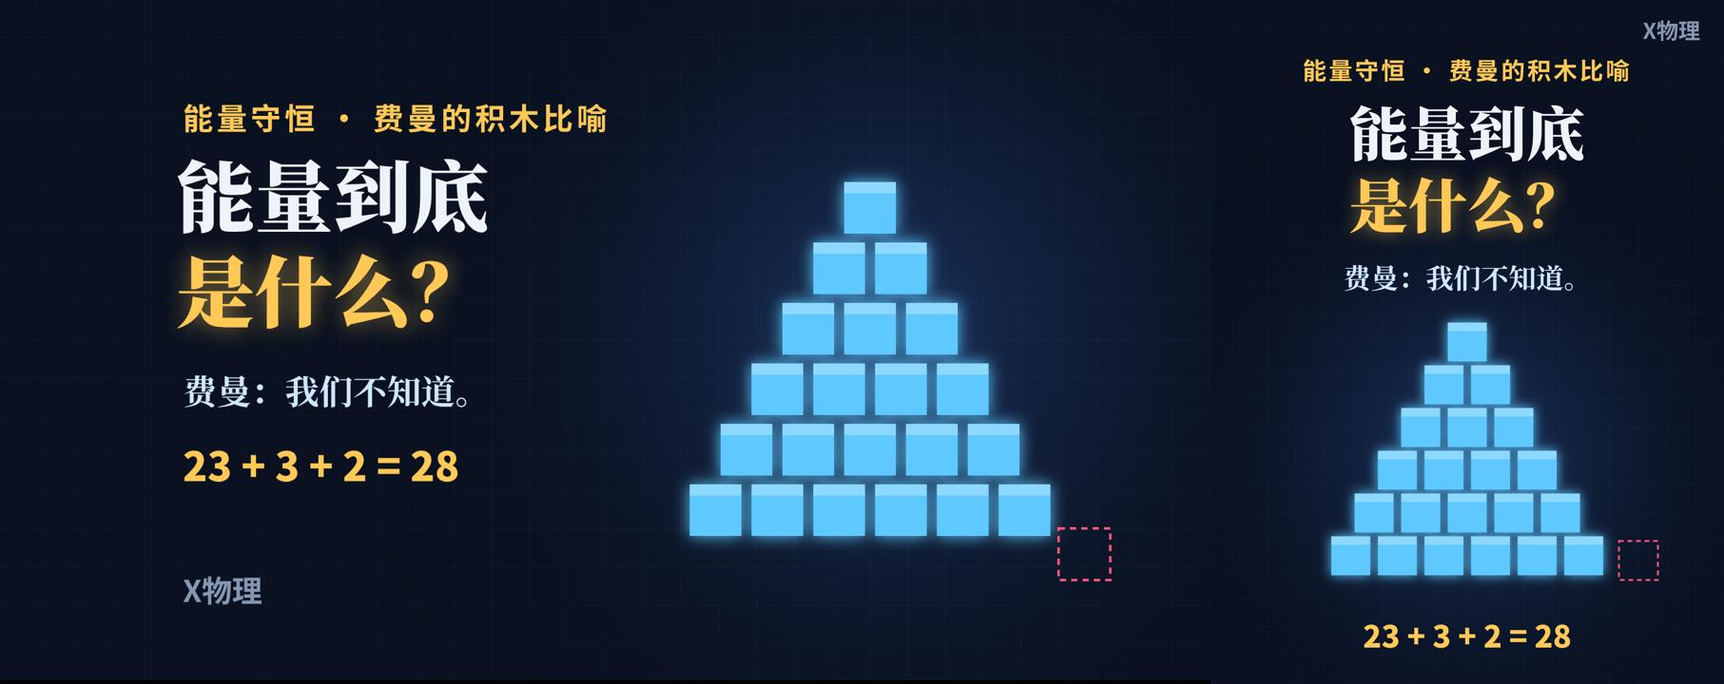
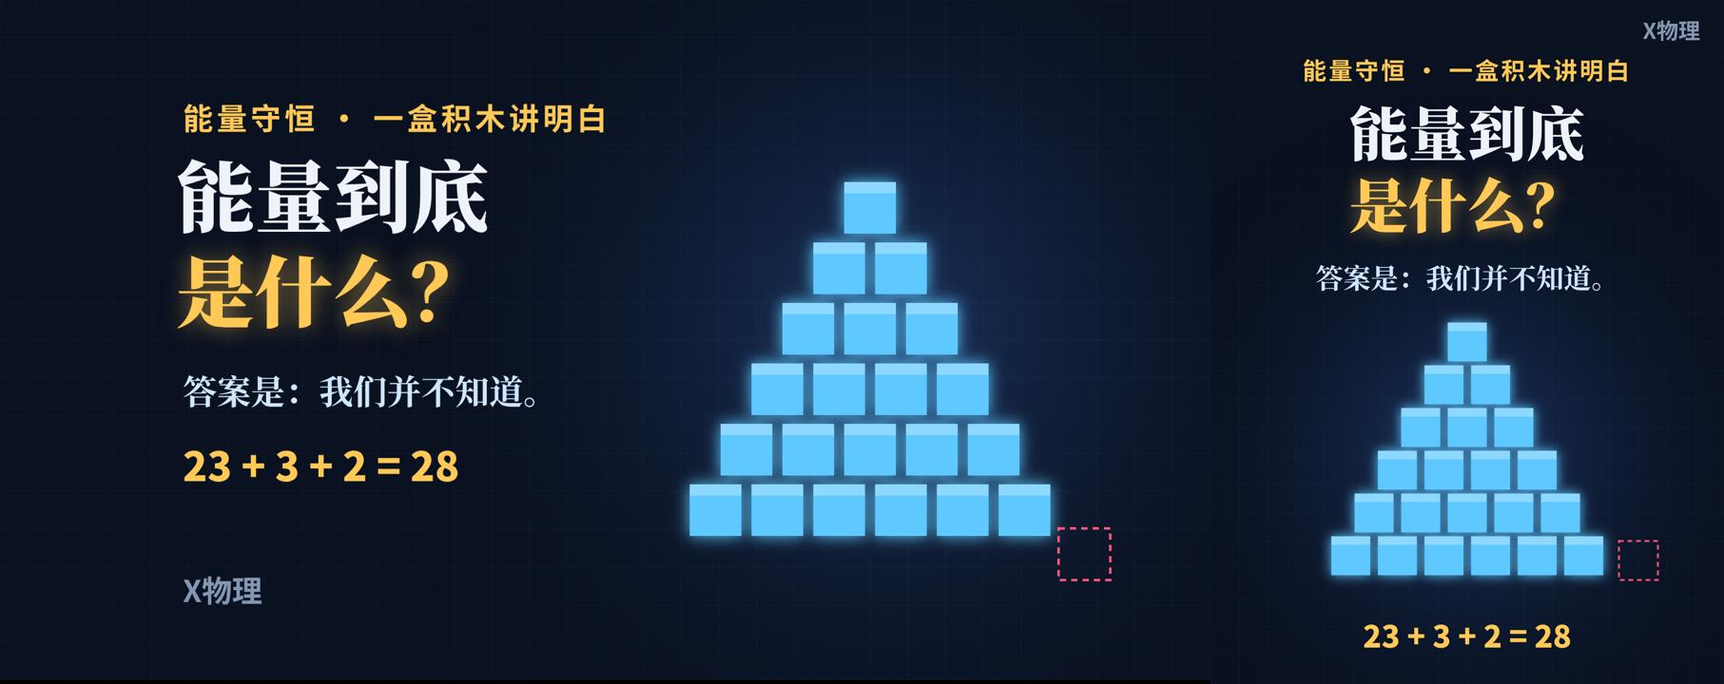
能量守恒教学版：加人物（丹尼斯/妈妈/布鲁斯）、去掉费曼、单位改克和厘米、音效调小
Claude-Session: https://claude.ai/code/session_01XMyVkW7vvj317S43WL6LG8

diff --git a/mystudy/02_energy/scenes.js b/mystudy/02_energy/scenes.js
@@ -1,5 +1,5 @@
 // 能量守恒 · 什么是能量（教学版，无配乐）
-// 依据：费曼《物理学讲义》第一卷 §4-1 的积木比喻（旁白用自己的话复述，只引用一句短引文并注明出处）
+// 积木比喻教学；单位用克、厘米；人物：丹尼斯（孩子）、妈妈、布鲁斯（邻居孩子）
 // 配色：冰蓝 = 积木 / 势能；金 = 关键结果 / 动能；红 = 外来 / 划掉
 const S = [];
 const BL = '#5EC8FF', RED = '#FF5577';
@@ -30,10 +30,58 @@ function room(g, a, o = {}) {
   if (o.box) { const bx = RX + 640, by = RY + 470; rrect(g, bx, by, 220, 150, 10, '#6B4A2A', '#C89A5E', 3, a * o.box);
     rrect(g, bx - 10, by - 18, 240, 26, 6, '#8A6238', '#C89A5E', 2, a * o.box);
     txt(g, '玩具箱', bx + 110, by + 80, { size: 32, w: 700, col: '#F2D7A8', al: 'center', a: a * o.box }); }
-  if (o.tub) { const tx = RX + 600, ty = RY + 470, tw = 260, th = 160; const lv = o.level ?? 6;   // 水深（英寸），满刻度 8 in
+  if (o.tub) { const tx = RX + 600, ty = RY + 470, tw = 260, th = 160; const lv = o.level ?? 15;   // 水深（厘米），满刻度 20 cm
     rrect(g, tx, ty, tw, th, 40, 'rgba(230,240,255,.06)', 'rgba(230,240,255,.7)', 4, a * o.tub);
-    const wh = (th - 20) * lv / 8; rrect(g, tx + 10, ty + th - 10 - wh, tw - 20, wh, 28, 'rgba(110,130,90,.75)', null, 0, a * o.tub);
-    txt(g, `水深 ${lv.toFixed(lv % 1 ? 1 : 0)} in`, tx + tw / 2, ty - 30, { size: 30, w: 700, col: '#CFE6C0', al: 'center', a: a * o.tub }); }
+    const wh = (th - 20) * lv / 20; rrect(g, tx + 10, ty + th - 10 - wh, tw - 20, wh, 28, 'rgba(110,130,90,.75)', null, 0, a * o.tub);
+    txt(g, `水深 ${lv.toFixed(1)} cm`, tx + tw / 2, ty - 30, { size: 30, w: 700, col: '#CFE6C0', al: 'center', a: a * o.tub }); }
+}
+
+// ---------- 人物（原创卡通：丹尼斯、妈妈、布鲁斯）----------
+const KID_D = { kind: 'kid', skin: '#F2C9A0', hair: '#3B2A1E', style: 'spiky', shirt: '#3D8BFF', pants: '#24324D', name: '丹尼斯' };
+const KID_B = { kind: 'kid', skin: '#E8B98E', hair: '#C7772E', style: 'curly', shirt: '#FF5577', pants: '#2E2A40', name: '布鲁斯' };
+const MOM = { kind: 'adult', skin: '#F4D0AE', hair: '#5A3422', style: 'long', shirt: '#B48CFF', pants: '#6E55B0', name: '妈妈' };
+function person(g, x, y, sc, P, a = 1, o = {}) {           // (x, y) = 两脚中间的地面点
+  if (a <= 0) return; const kid = P.kind === 'kid', H = (kid ? 150 : 230) * sc, hr = (kid ? 30 : 30) * sc;
+  const legH = H * (kid ? .30 : .38), bodyH = H * (kid ? .36 : .34), bw = (kid ? 52 : 62) * sc;
+  const hipY = y - legH, neckY = hipY - bodyH, hy = neckY - hr * .95;
+  g.save(); g.globalAlpha *= a; g.lineCap = 'round'; g.lineJoin = 'round';
+  // 腿
+  g.strokeStyle = P.pants; g.lineWidth = 13 * sc; g.beginPath(); g.moveTo(x - bw * .22, hipY); g.lineTo(x - bw * .24, y - 4 * sc); g.moveTo(x + bw * .22, hipY); g.lineTo(x + bw * .24, y - 4 * sc); g.stroke();
+  g.fillStyle = '#1B1F2A'; [-1, 1].forEach(s => { g.beginPath(); g.ellipse(x + s * bw * .28, y - 3 * sc, 11 * sc, 6 * sc, 0, 0, 7); g.fill(); });
+  // 手臂
+  const arm = o.arm || 'down'; g.strokeStyle = P.skin; g.lineWidth = 10 * sc;
+  const sy = neckY + 10 * sc;
+  [-1, 1].forEach(s => { g.beginPath(); g.moveTo(x + s * bw * .45, sy);
+    if (arm === 'up' || (arm === 'point' && s === 1)) g.lineTo(x + s * bw * .95, sy - 34 * sc); else if (arm === 'hips') { g.lineTo(x + s * bw * .85, sy + bodyH * .35); g.lineTo(x + s * bw * .5, sy + bodyH * .62); } else g.lineTo(x + s * bw * .62, sy + bodyH * .78);
+    g.stroke(); });
+  // 身体（妈妈是连衣裙）
+  g.fillStyle = P.shirt; g.beginPath();
+  if (kid) g.roundRect(x - bw / 2, neckY, bw, bodyH + 6 * sc, 14 * sc);
+  else { g.moveTo(x - bw * .38, neckY); g.lineTo(x + bw * .38, neckY); g.lineTo(x + bw * .62, hipY + 18 * sc); g.lineTo(x - bw * .62, hipY + 18 * sc); g.closePath(); }
+  g.fill();
+  // 头
+  if (P.style === 'long') { g.fillStyle = P.hair; g.beginPath(); g.roundRect(x - hr * 1.12, hy - hr * .9, hr * 2.24, hr * 2.5, hr * .9); g.fill(); }
+  g.fillStyle = P.skin; g.beginPath(); g.arc(x, hy, hr, 0, 7); g.fill();
+  g.fillStyle = P.hair;
+  if (P.style === 'spiky') { g.beginPath(); g.moveTo(x - hr, hy - hr * .15); for (let k = 0; k <= 6; k++) g.lineTo(x - hr + k * hr / 3, hy - hr * (k % 2 ? 1.35 : .85)); g.lineTo(x + hr, hy - hr * .15); g.closePath(); g.fill(); }
+  else if (P.style === 'curly') { for (let k = 0; k < 7; k++) { const an = Math.PI * (1.05 + k * .15); g.beginPath(); g.arc(x + Math.cos(an) * hr * .95, hy + Math.sin(an) * hr * .95, hr * .38, 0, 7); g.fill(); } }
+  else { g.beginPath(); g.arc(x, hy - hr * .15, hr * 1.02, Math.PI * 1.02, Math.PI * 1.98); g.fill(); }
+  // 脸
+  g.fillStyle = '#1B1F2A'; [-1, 1].forEach(s => { g.beginPath(); g.arc(x + s * hr * .36, hy + hr * .05, 3.6 * sc, 0, 7); g.fill(); });
+  g.strokeStyle = '#7A3B2E'; g.lineWidth = 3 * sc; const mood = o.mood || 'smile';
+  if (mood === 'shout') { g.fillStyle = '#7A3B2E'; g.beginPath(); g.ellipse(x, hy + hr * .5, hr * .22, hr * .2, 0, 0, 7); g.fill(); }
+  else if (mood === 'wow') { g.beginPath(); g.arc(x, hy + hr * .48, hr * .12, 0, 7); g.stroke(); }
+  else if (mood === 'think') { g.beginPath(); g.moveTo(x - hr * .25, hy + hr * .5); g.lineTo(x + hr * .25, hy + hr * .45); g.stroke(); }
+  else { g.beginPath(); g.arc(x, hy + hr * .28, hr * .3, Math.PI * .15, Math.PI * .85); g.stroke(); }
+  g.restore();
+  if (o.label !== false) txt(g, P.name, x, y + (kid ? 22 : 26) * sc, { size: 26, w: 700, col: P.shirt, al: 'center', a });
+  return { headY: hy - hr };
+}
+function bubble(g, s, x, y, tx, ty, a, col = C.ink) {      // 气泡：中心 (x, y)，尾巴指向 (tx, ty)
+  if (a <= 0) return; g.save(); g.globalAlpha *= a; g.font = `700 34px ${SC_FONT}`; const w = g.measureText(s).width + 46, h = 66;
+  g.fillStyle = 'rgba(238,243,250,.96)'; g.beginPath(); g.roundRect(x - w / 2, y - h / 2, w, h, 22); g.fill();
+  g.beginPath(); g.moveTo(x - 14, y + h / 2 - 2); g.lineTo(tx, ty); g.lineTo(x + 14, y + h / 2 - 2); g.fill();
+  g.fillStyle = '#0A1120'; g.textAlign = 'center'; g.textBaseline = 'middle'; g.fillText(s, x, y + 2); g.restore();
 }
 // 右侧计数牌
 function counter(g, label, n, a, col = C.ink, y = 300) {
@@ -45,19 +93,20 @@ function fitTex(g, k, x, y, maxW, o = {}) { const s = Math.min(o.size ?? 1, maxW
 
 // ---------- 0 主题（第 0 帧起显示）+ 引子 ----------
 S.push({ lead: 1.2,
-  lines: ['物理学里有一条定律，至今没有发现过例外：', ['能量守恒。', .4], '可是，能量到底是什么？', ['费曼的回答很直接：我们不知道。', .6],
-    '我们只知道：有一些公式算出来的数，加起来总是不变。', ['为了说明这件事，他讲了一个孩子和积木的故事。', .6]],
+  lines: ['物理学里有一条定律，至今没有发现过例外：', ['能量守恒。', .4], '可是，能量到底是什么？', ['一个很诚实的回答是：我们并不知道。', .6],
+    '我们只知道：有一些公式算出来的数，加起来总是不变。', ['先来看一个孩子和积木的故事。', .6]],
   draw(g, lt, s) {
     const L = s.L, ta = 1 - seg(lt, L[3] - .4, .5);
     txt(g, '能量守恒', W / 2, 360, { size: 160, w: 900, serif: true, al: 'center', a: ta, glow: 'rgba(255,200,87,.4)' });
     txt(g, '什么是能量？', W / 2, 520, { size: 62, w: 700, col: C.gold, al: 'center', a: ta });
     txt(g, '物理学最基本的定律之一', W / 2, 640, { size: 40, col: C.mute, al: 'center', a: ta * seg(lt, L[0], .5) * (1 - seg(lt, L[2], .4)) });
     const qa = seg(lt, L[3], .6);
-    txt(g, '“在今天的物理学中，我们不知道能量是什么。”', W / 2, 330, { size: 58, w: 700, serif: true, al: 'center', a: qa });
-    txt(g, '—— 费曼《物理学讲义》第一卷 §4-1', W / 2, 420, { size: 34, col: C.mute, al: 'center', a: qa });
+    txt(g, '能量到底是什么？', W / 2, 300, { size: 64, w: 900, serif: true, al: 'center', a: qa });
+    txt(g, '—— 我们并不知道。', W / 2, 400, { size: 52, w: 700, col: C.gold, al: 'center', a: qa });
     tex(g, 'sum_const', W / 2, 620, { size: 1.1, al: 'center', rev: lin(lt, L[4] + .3, 1.6) });
     // 一堆积木
-    for (let k = 0; k < 7; k++) block(g, W / 2 - 300 + k * 100, 820 - (k % 2) * 10, BL, seg(lt, L[5] + k * .12, .3));
+    for (let k = 0; k < 7; k++) block(g, W / 2 - 200 + k * 90, 840 - (k % 2) * 10, BL, seg(lt, L[5] + k * .12, .3));
+    person(g, W / 2 - 340, 900, 1.0, KID_D, seg(lt, L[5], .5));
   } });
 
 // ---------- 1 28 块积木 ----------
@@ -72,6 +121,8 @@ S.push({ sec: '积木的故事', secEn: 'DENNIS AND HIS 28 BLOCKS',
       block(g, x + play * 40 * Math.sin(lt * 2.1 + k * 1.7), y + play * 30 * Math.cos(lt * 1.7 + k * 2.3), BL, seg(lt, L[0] + k * .03, .3)); }
     const ca = seg(lt, L[3], .5), n = Math.min(28, Math.floor(28 * lin(lt, L[3] + .3, 1.6)));
     counter(g, '今晚数到', n, ca, n === 28 && lt > L[4] ? C.gold : C.ink);
+    person(g, 180, 785, 1, KID_D, seg(lt, L[0], .5), { arm: play > .3 ? 'up' : 'down' });
+    person(g, 1830, 900, 1, MOM, seg(lt, L[2] - .3, .5), { mood: lt > L[4] ? 'smile' : 'think' });
     pill(g, '积木数 = 28　（守恒）', 1480, 560, C.gold, { al: 'center', a: seg(lt, L[5], .5), size: 38 });
   } });
 
@@ -85,6 +136,8 @@ S.push({ sec: '积木的故事 · 27 块？', secEn: 'UNDER THE CARPET',
     block(g, RX + 730, RY + 550, BL, .5 + .5 * fa, 54, fa < .5);
     if (fa > 0) { g.save(); g.globalAlpha = fa; g.strokeStyle = C.gold; g.lineWidth = 4; g.beginPath(); g.arc(RX + 730, RY + 550, 52, 0, 7); g.stroke(); g.restore(); }
     counter(g, '看得见的', 27, 1);
+    person(g, 180, 785, 1, KID_D, 1);
+    person(g, 1830, 900, 1, MOM, 1, { mood: fa > .5 ? 'smile' : 'think', arm: fa > .5 ? 'point' : 'down' });
     txt(g, '+ 地毯下 1 块 = 28', 1480, 520, { size: 46, w: 700, col: C.gold, al: 'center', a: fa });
     pill(g, '找遍每个角落', 1480, 640, C.blue, { al: 'center', a: seg(lt, L[2], .5), size: 36 });
   } });
@@ -104,6 +157,9 @@ S.push({ sec: '积木的故事 · 26 块？30 块？', secEn: 'THE OPEN WINDOW',
     const ba = seg(lt, L[2], .4) * (1 - seg(lt, L[4], .5));
     block(g, RX + 220, RY + 560, RED, ba); block(g, RX + 320, RY + 560, RED, ba);
     txt(g, '布鲁斯的', RX + 270, RY + 620, { size: 30, w: 700, col: RED, al: 'center', a: seg(lt, L[3], .4) * ba });
+    person(g, 620, 785, 1, KID_D, 1, { mood: ph2 && !ph3 ? 'smile' : 'smile' });
+    person(g, 1105, 785, 1, KID_B, seg(lt, L[3] - .3, .5) * (1 - seg(lt, L[4] + .4, .5)), { arm: 'up' });
+    person(g, 1830, 900, 1, MOM, 1, { mood: ph2 && !ph3 ? 'wow' : 'think', arm: ph3 ? 'hips' : 'down' });
     const cnt = ph3 ? 28 : ph2 ? 30 : 26;
     counter(g, '看得见的', cnt, 1, ph2 && !ph3 ? RED : C.ink, 300);
     txt(g, '+ 窗外 2 块 = 28', 1480, 520, { size: 46, w: 700, col: C.gold, al: 'center', a: oa });
@@ -113,36 +169,41 @@ S.push({ sec: '积木的故事 · 26 块？30 块？', secEn: 'THE OPEN WINDOW',
 
 // ---------- 4 玩具箱：称重 ----------
 S.push({ sec: '积木的故事 · 25 块？', secEn: 'WEIGH THE BOX',
-  lines: ['后来有一天，只数到 25 块。', '房间里有个玩具箱，孩子大喊：别打开我的箱子！', '妈妈想了个办法：她知道一块积木重 3 盎司，', '空箱子重 16 盎司。', '她称了称箱子：25 盎司。', ['多出来 9 盎司，除以 3：箱子里有 3 块。', .4],
-    '于是她写出一条公式：', ['看得见的积木数，加上（箱重 − 16）除以 3，等于常数。', .8]],
+  lines: ['后来有一天，只数到 25 块。', '房间里有个玩具箱，孩子大喊：别打开我的箱子！', '妈妈想了个办法：她知道一块积木重 50 克，', '空箱子重 200 克。', '她称了称箱子：350 克。', ['多出来 150 克，除以 50：箱子里有 3 块。', .4],
+    '于是她写出一条公式：', ['看得见的积木数，加上（箱重 − 200 克）除以 50 克，等于常数。', .8]],
   cues: [[s => s.L[5] + 1.0, 'ding']],
   draw(g, lt, s) {
     const L = s.L; room(g, 1, { box: 1 });
     for (let k = 0; k < 25; k++) { const [x, y] = gridPos(k); block(g, x, y); }
     const ga = seg(lt, L[5], .5); [0, 1, 2].forEach(j => block(g, RX + 680 + j * 70, RY + 540, BL, ga, 46, true));
     counter(g, '看得见的', 25, 1, C.ink, 280);
+    const sh = seg(lt, L[1], .3) * (1 - seg(lt, L[2] + .4, .4));
+    person(g, 680, 785, 1, KID_D, 1, { mood: sh > .2 ? 'shout' : 'smile', arm: sh > .2 ? 'up' : 'down' });
+    bubble(g, '别打开我的箱子！', 560, 520, 665, 585, sh);
+    person(g, 1830, 900, 1, MOM, 1, { mood: 'think' });
     const sa = seg(lt, L[2], .5);
-    txt(g, '1 块积木 = 3 oz', 1480, 470, { size: 38, w: 700, col: C.ink, al: 'center', a: sa });
-    txt(g, '空箱子 = 16 oz', 1480, 525, { size: 38, w: 700, col: C.ink, al: 'center', a: seg(lt, L[3], .5) });
-    txt(g, '这次称得 = 25 oz', 1480, 580, { size: 38, w: 700, col: C.gold, al: 'center', a: seg(lt, L[4], .5) });
-    txt(g, '（oz：盎司）', 1720, 470, { size: 26, col: C.mute, a: sa });
+    txt(g, '1 块积木 = 50 g', 1480, 470, { size: 38, w: 700, col: C.ink, al: 'center', a: sa });
+    txt(g, '空箱子 = 200 g', 1480, 525, { size: 38, w: 700, col: C.ink, al: 'center', a: seg(lt, L[3], .5) });
+    txt(g, '这次称得 = 350 g', 1480, 580, { size: 38, w: 700, col: C.gold, al: 'center', a: seg(lt, L[4], .5) });
     fitTex(g, 'ex41', 1480, 690, 560, { size: .9, al: 'center', rev: lin(lt, L[5], 1.4) });
     fitTex(g, 'eq41', W / 2, 900, 1500, { size: .75, al: 'center', rev: lin(lt, L[6] + .3, 2.0) });
   } });
 
 // ---------- 5 浴缸 ----------
 S.push({ sec: '积木的故事 · 又对不上了', secEn: 'THE DIRTY BATHWATER',
-  lines: ['后来，数字又对不上了。', '原来浴缸里的水很脏，孩子把积木扔进了水里，她看不见。', '水原来深 6 英寸，每扔进一块积木，水面升高 1/4 英寸。', ['于是公式里再加一项。', .4],
-    ['这次：看得见 23 块，箱子算出 3 块，水深 6.5 英寸算出 2 块。', .4], ['23 + 3 + 2 = 28。', .8], ['公式越来越复杂，但算出来的总数，始终是 28。', .8]],
+  lines: ['后来，数字又对不上了。', '原来浴缸里的水很脏，孩子把积木扔进了水里，她看不见。', '水原来深 15 厘米，每扔进一块积木，水面升高 0.5 厘米。', ['于是公式里再加一项。', .4],
+    ['这次：看得见 23 块，箱子算出 3 块，水深 16 厘米算出 2 块。', .4], ['23 + 3 + 2 = 28。', .8], ['公式越来越复杂，但算出来的总数，始终是 28。', .8]],
   cues: [[s => s.L[5] + .4, 'ding']],
   draw(g, lt, s) {
-    const L = s.L, lv = 6 + 0.5 * seg(lt, L[2] + .6, 1.2);
+    const L = s.L, lv = 15 + 1 * seg(lt, L[2] + .6, 1.2);
     room(g, 1, { tub: 1, level: lv });
     // 箱子挪到左下角
     const bx = RX + 360, by = RY + 470; rrect(g, bx, by, 200, 140, 10, '#6B4A2A', '#C89A5E', 3, 1); txt(g, '玩具箱', bx + 100, by + 75, { size: 30, w: 700, col: '#F2D7A8', al: 'center' });
     for (let k = 0; k < 23; k++) { const [x, y] = gridPos(k); if (y < RY + 450) block(g, x, y); else block(g, x - 0, y, BL, 1); }
     const ga = seg(lt, L[4], .5); [0, 1].forEach(j => block(g, RX + 690 + j * 80, RY + 560, BL, ga, 46, true));
     counter(g, '看得见的', 23, 1, C.ink, 280);
+    person(g, 180, 785, 1, KID_D, 1, { arm: lt > L[1] && lt < L[3] ? 'point' : 'down' });
+    person(g, 1830, 900, 1, MOM, 1, { mood: lt > L[5] ? 'smile' : 'think' });
     fitTex(g, 'ex42', 1480, 520, 600, { size: .9, al: 'center', rev: lin(lt, L[4], 2.0) });
     fitTex(g, 'eq42', W / 2, 900, 1700, { size: .72, al: 'center', rev: lin(lt, L[3], 2.4) });
     pill(g, '总数 = 28', 1480, 660, C.gold, { al: 'center', a: seg(lt, L[5], .5), size: 44 });
@@ -229,7 +290,6 @@ S.push({ sec: '总结', secEn: 'SUMMARY',
     tex(g, 'ek', W / 2 - 220, 520, { size: 1.0, al: 'center', a: seg(lt, L[3], .5) });
     tex(g, 'ep', W / 2 + 230, 520, { size: 1.0, al: 'center', a: seg(lt, L[3], .5) });
     txt(g, '“什么不变”  ≠  “为什么不变”', W / 2, 740, { size: 54, w: 900, serif: true, al: 'center', a: seg(lt, L[4], .6) });
-    txt(g, '参考：费曼《物理学讲义》第一卷 第 4 章 §4-1', W / 2, 880, { size: 30, col: C.mute, al: 'center', a: seg(lt, L[0], .5) });
   } });
 
 window.NO_FADE_IN = true;

diff --git a/mystudy/02_energy/tex_src.js b/mystudy/02_energy/tex_src.js
@@ -1,11 +1,11 @@
-// 能量守恒 · 费曼的积木比喻（教学版）公式表
+// 能量守恒 · 积木比喻（教学版）公式表
 const TEX = {
   sum_const: "E_1+E_2+E_3+\\cdots=\\text{常数}",
-  eq41: "(\\text{看得见的积木数})+\\frac{(\\text{箱重})-16\\ \\text{oz}}{3\\ \\text{oz}}=\\text{常数}",
-  ex41: "25+\\frac{25-16}{3}=25+{\\color{#FFC857}{3}}=28",
-  eq42: "(\\text{看得见的积木数})+\\frac{(\\text{箱重})-16\\ \\text{oz}}{3\\ \\text{oz}}+\\frac{(\\text{水深})-6\\ \\text{in}}{1/4\\ \\text{in}}=\\text{常数}",
-  eq42c: "{\\color{#FF5577}{\\cancel{(\\text{看得见的积木数})}}}+\\frac{(\\text{箱重})-16\\ \\text{oz}}{3\\ \\text{oz}}+\\frac{(\\text{水深})-6\\ \\text{in}}{1/4\\ \\text{in}}=\\text{常数}",
-  ex42: "23+\\frac{25-16}{3}+\\frac{6.5-6}{1/4}=23+{\\color{#FFC857}{3}}+{\\color{#FFC857}{2}}=28",
+  eq41: "(\\text{看得见的积木数})+\\frac{(\\text{箱重})-200\\ \\text{g}}{50\\ \\text{g}}=\\text{常数}",
+  ex41: "25+\\frac{350-200}{50}=25+{\\color{#FFC857}{3}}=28",
+  eq42: "(\\text{看得见的积木数})+\\frac{(\\text{箱重})-200\\ \\text{g}}{50\\ \\text{g}}+\\frac{(\\text{水深})-15\\ \\text{cm}}{0.5\\ \\text{cm}}=\\text{常数}",
+  eq42c: "{\\color{#FF5577}{\\cancel{(\\text{看得见的积木数})}}}+\\frac{(\\text{箱重})-200\\ \\text{g}}{50\\ \\text{g}}+\\frac{(\\text{水深})-15\\ \\text{cm}}{0.5\\ \\text{cm}}=\\text{常数}",
+  ex42: "23+\\frac{350-200}{50}+\\frac{16-15}{0.5}=23+{\\color{#FFC857}{3}}+{\\color{#FFC857}{2}}=28",
   ek: "E_k=\\tfrac12 mv^2", ep: "E_p=mgh",
   etot: "mgh+\\tfrac12 mv^2=\\text{常数}",
   summ: "\\sum_i E_i=\\text{常数}\\qquad(\\text{没有能量进出})",

diff --git a/mystudy/02_energy/cover/cover.html b/mystudy/02_energy/cover/cover.html
@@ -12,9 +12,9 @@ canvas{position:absolute;left:0;top:0}
 .tag{position:absolute;left:290px;top:900px;font-family:"Noto Sans CJK SC",sans-serif;font-weight:700;font-size:48px;color:#8597B0}
 </style></head><body><div class="c">
 <canvas id="cv" width="1920" height="1080"></canvas>
-<div class="kick">能量守恒 · 费曼的积木比喻</div>
+<div class="kick">能量守恒 · 一盒积木讲明白</div>
 <div class="h">能量到底<br><b>是什么？</b></div>
-<div class="q">费曼：我们不知道。</div>
+<div class="q">答案是：我们并不知道。</div>
 <div class="n">23 + 3 + 2 = 28</div>
 <div class="tag">X物理</div>
 </div>

diff --git a/mystudy/02_energy/cover/cover_dy.html b/mystudy/02_energy/cover/cover_dy.html
@@ -12,9 +12,9 @@ canvas{position:absolute;left:0;top:0}
 .tag{position:absolute;right:50px;top:30px;font-family:"Noto Sans CJK SC",sans-serif;font-weight:700;font-size:46px;color:#8597B0}
 </style></head><body><div class="c">
 <canvas id="cv" width="1080" height="1440"></canvas>
-<div class="kick">能量守恒 · 费曼的积木比喻</div>
+<div class="kick">能量守恒 · 一盒积木讲明白</div>
 <div class="h">能量到底<br><b>是什么？</b></div>
-<div class="q">费曼：我们不知道。</div>
+<div class="q">答案是：我们并不知道。</div>
 <div class="n">23 + 3 + 2 = 28</div>
 <div class="tag">X物理</div>
 </div>

diff --git a/mystudy/02_energy/发布.md b/mystudy/02_energy/发布.md
@@ -1,26 +1,26 @@
 # 能量守恒 · 什么是能量（教学版，无配乐）
 
-依据：费曼《物理学讲义》第一卷第 4 章 §4-1 的积木比喻（用户 2026-10-22 发来的书页截图）。旁白用自己的话复述，只引用一句短引文“在今天的物理学中，我们不知道能量是什么。”并在画面注明出处；片尾写“参考：费曼《物理学讲义》第一卷 第 4 章 §4-1”。
+教学视频，不提人名出处（用户 2026-10-22：“这是教学，不需要提费曼”）。积木比喻来自用户发来的教材截图，旁白用自己的话讲。
+单位换成中国学生熟悉的：积木每块 50 g，空箱子 200 g，称得 350 g → (350−200)/50 = 3 块；水深原来 15 cm，每块升高 0.5 cm，量得 16 cm → (16−15)/0.5 = 2 块；23 + 3 + 2 = 28（已算）。
+人物（原创卡通，`person()`）：丹尼斯（蓝衣、刺头）、妈妈（紫裙、长发，站在画面右侧数积木）、布鲁斯（红衣、卷发，带进来的积木也是红色，只在“30 块”那段出现在窗外）。玩具箱那段丹尼斯举手大喊，有气泡“别打开我的箱子！”。
 
-结构（约 4 分 56 秒，10 幕）：主题卡（第 0 帧）与引子 → 28 块积木 → 地毯下（27）→ 窗户与布鲁斯（26 / 30，封闭系统）→ 玩具箱称重（式 4.1：25 + (25−16)/3 = 28）→ 浴缸（式 4.2：23 + 3 + 2 = 28）→ 根本没有积木（划掉第一项）→ 三点对应（边界 / 多种形式 / 不知道“是”什么）→ 例子：1 kg 球从 5 m 落下（49 J 守恒，g = 9.8，忽略空气阻力）→ 总结（值得记住：½mv²、mgh）。
-补充：书里只给公式，没有给“这一次”的具体数；箱子 25 oz、水深 6.5 in 是为演示配的数（算过：(25−16)/3 = 3，(6.5−6)/(1/4) = 2，23 + 3 + 2 = 28）。落球例子是另加的，不在原文 §4-1。
+结构（约 4 分 56 秒，10 幕）：主题卡（第 0 帧）与引子 → 28 块积木 → 地毯下（27）→ 窗户与布鲁斯（26 / 30，封闭系统）→ 玩具箱称重 → 浴缸 → 根本没有积木（划掉第一项）→ 三点对应（边界 / 多种形式 / 不知道“是”什么）→ 例子：1 kg 球从 5 m 落下（49 J，g = 9.8，忽略空气阻力）→ 总结（值得记住：½mv²、mgh）。
 
-声音：无配乐（MG=0），也去掉了每句字幕的提示音（QUIET=quiet），只留转场和关键结论的轻音效。没有旁白和配乐，所以不做 −14 LUFS 响度标准化（那样会把音效放得很大）；只整体加 9 dB（`-af volume=9dB`），成片 −17.0 LUFS、峰值 −7.4 dBTP。
+声音：无配乐（MG=0），去掉每句字幕的提示音（QUIET=quiet），只留转场和结论处的轻音效；成片再整体 −2 dB（用户反馈 +9 dB 那版音效太大）。
 
 ## 标题（B站 ≤ 20 字）
-1. **费曼的积木：能量到底是什么？**（14 字，推荐）
-2. 能量守恒｜费曼的积木比喻（12 字）
-3. 费曼说：我们不知道能量是什么（14 字）
+1. **能量到底是什么？一盒积木讲明白**（15 字，推荐）
+2. 能量守恒：积木为什么总是28块（15 字）
+3. 能量守恒｜从积木到公式（11 字）
 
 ## 简介
-能量守恒是物理学最基本的定律之一，可能量到底“是”什么？费曼在《物理学讲义》里用一个孩子和 28 块积木的故事回答：我们不知道。我们只知道，用一系列公式算出来的数，加起来总是不变。本期把这个比喻一步步画出来，再用一个落下的球算一遍：势能 + 动能 = 49 焦。
-参考：费曼《物理学讲义》第一卷 第 4 章 §4-1。
+能量守恒是物理学最基本的定律之一，可能量到底“是”什么？诚实的回答是：我们并不知道。我们只知道，用一系列公式算出来的数，加起来总是不变。本期用一个孩子和 28 块积木的故事，一步步画出这个想法：地毯下、窗外、玩具箱、浴缸……最后拿掉积木，只剩公式。再用一个落下的球算一遍：势能 + 动能 = 49 焦。
 
 ## 小红书标签
-#能量守恒 #费曼物理学讲义 #大学物理 #物理学习 #高中物理 #费曼
+#能量守恒 #大学物理 #高中物理 #物理学习 #物理思维 #动能和势能
 
 ## 封面
 `cover/cover.html`（16:9，4:3 裁 x 240–1680）、`cover/cover_dy.html`（抖音竖版，1.5 倍出 1620×2160）。
 
 ## 制作
-`MG=0 QUIET=quiet bash tools/render.sh 02_energy 输出.mp4`
+`MG=0 QUIET=quiet bash tools/render.sh 02_energy raw.mp4`，再 `ffmpeg -i raw.mp4 -c:v copy -af volume=-2dB -c:a aac -b:a 192k out.mp4`

diff --git a/mystudy/README.md b/mystudy/README.md
@@ -41,7 +41,7 @@
 | --- | --- | --- | --- |
 | 01 | 泰勒展开 | `notes/01_泰勒展开*` | 完整版约 11 分 24 秒：① 导数 → ② 零次 → ③ 一次（切线）→ ④ 切线不会弯 → ⑤ 一般公式与 n! → ⑥ eˣ → ⑦ 势能展开与例子 → 附：没想通的三个问题 → 一句话 |
 | 01p | 泰勒展开 · 上传版 | 同上 | `01_taylor_pub/`，约 5 分 41 秒：钩子（只会加减乘除怎么算 e^0.5）→ 路线图 → ①–⑥ → 总结 + 下期预告；顶部进度条、水印；标题/简介/标签/封面见 `01_taylor_pub/发布.md` |
-| 02 | 能量守恒 · 什么是能量（教学版，无配乐） | 费曼讲义第一卷 §4-1 书页截图 | `02_energy/`，约 4 分 56 秒：积木比喻逐步动画（地毯/窗户/布鲁斯/玩具箱称重/浴缸）→ 根本没有积木 → 三点对应 → 落球 49 J → 总结；发布文案见 `02_energy/发布.md` |
+| 02 | 能量守恒 · 什么是能量（教学版，无配乐） | 教材积木比喻截图（片中不提出处） | `02_energy/`，约 4 分 56 秒：积木比喻逐步动画（地毯/窗户/布鲁斯/玩具箱称重/浴缸）→ 根本没有积木 → 三点对应 → 落球 49 J → 总结；发布文案见 `02_energy/发布.md` |
 
 
 - 先收齐笔记再开工；用户说“一会发研究笔记”时就等笔记，不先做。
